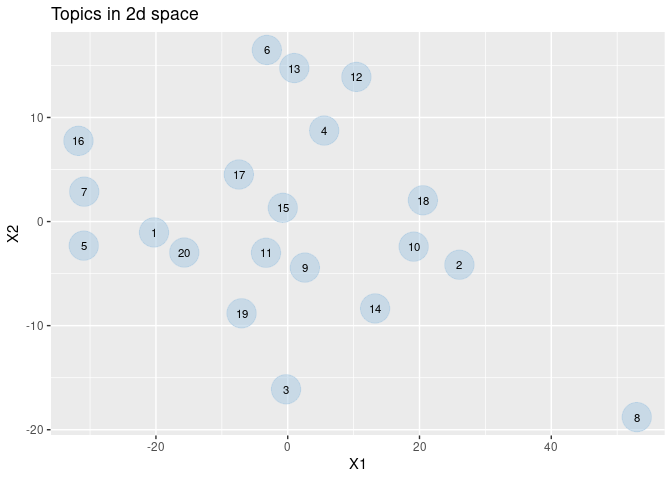
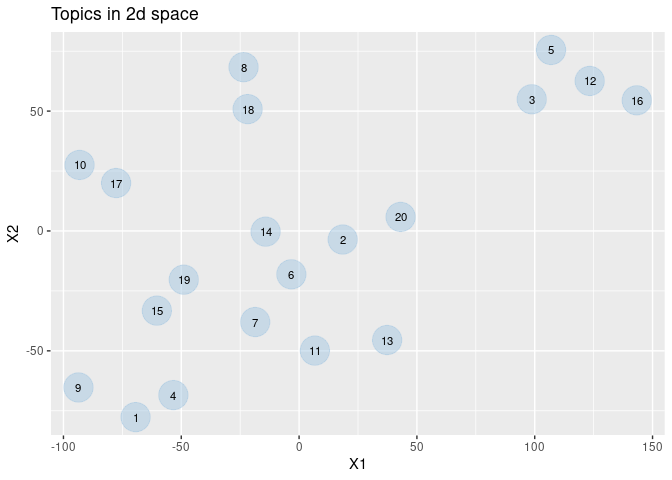
re

diff --git a/README.md b/README.md
@@ -10,6 +10,9 @@ structure.
 -   [Installation](#installation)
 -   [Usage](#usage)
     -   [PubMed search](#pubmed-search)
+    -   [Retrieve and parse abstract
+        data](#retrieve-and-parse-abstract-data)
+    -   [KWIC search](#kwic-search)
     -   [Extract MeSH classifications](#extract-mesh-classifications)
     -   [MeSH annotations-based topic
         model](#mesh-annotations-based-topic-model)
@@ -19,7 +22,6 @@ structure.
     -   [MeSH vocabulary](#mesh-vocabulary)
     -   [PMC MeSH annotation
         frequencies](#pmc-mesh-annotation-frequencies)
-    -   [Medline citation counts](#medline-citation-counts)
 
 ## Installation
 
@@ -42,21 +44,21 @@ s0 <- PubmedMTK::pmtk_search_pubmed(search_term = 'medical marijuana',
                                     fields = c('TIAB','MH'))
 ```
 
-    ## [1] "medical marijuana[TIAB] OR medical marijuana[MH]: 2126 records"
+    ## [1] "medical marijuana[TIAB] OR medical marijuana[MH]: 2134 records"
 
 ``` r
 head(s0)
 ```
 
     ##          search_term     pmid
-    ## 1: medical marijuana 34044753
-    ## 2: medical marijuana 34007062
-    ## 3: medical marijuana 33998880
-    ## 4: medical marijuana 33998864
-    ## 5: medical marijuana 33981161
-    ## 6: medical marijuana 33974499
+    ## 1: medical marijuana 34128629
+    ## 2: medical marijuana 34109050
+    ## 3: medical marijuana 34082823
+    ## 4: medical marijuana 34044753
+    ## 5: medical marijuana 34007062
+    ## 6: medical marijuana 33998880
 
-### Retrieve abstract data from PubMed
+### Retrieve and parse abstract data
 
 ``` r
 sen_df <- PubmedMTK::pmtk_get_records2(pmids = s0$pmid, 
@@ -78,39 +80,59 @@ list(pmid = sen_df$pmid[n],
 ```
 
     ## $pmid
-    ## [1] "33933061"
+    ## [1] "33974499"
     ## 
     ## $year
     ## [1] "2021"
     ## 
     ## $articletitle
-    ## [1] "Opioid use in medical cannabis authorization adult patients"
-    ## [2] "from 2013 to 2018: Alberta, Canada."                        
+    ## [1] "The Risk of QTc Prolongation with Antiemetics in the"
+    ## [2] "Palliative Care Setting: A Narrative Review."        
     ## 
     ## $meshHeadings
-    ## [1] "Adult|Alberta|Analgesics,"                                  
-    ## [2] "Opioid|Cannabis|Female|Humans|Male|Medical Marijuana|Middle"
-    ## [3] "Aged|Opioid-Related Disorders|United States"                
+    ## [1] "NA"
     ## 
     ## $text
-    ##  [1] "The opioid overdose epidemic in Canada and the United"      
-    ##  [2] "States has become a public health crisis - with exponential"
-    ##  [3] "increases in opioid-related morbidity and mortality."       
-    ##  [4] "Recently, there has been an increasing body of evidence"    
-    ##  [5] "focusing on the opioid-sparing effects of medical cannabis" 
-    ##  [6] "use (reduction of opioid use and reliance), and medical"    
-    ##  [7] "cannabis as a potential alternative treatment for chronic"  
-    ##  [8] "pain. The objective of this study is to assess the effect"  
-    ##  [9] "of medical cannabis authorization on opioid use (oral"      
-    ## [10] "morphine equivalent; OME) between 2013 and 2018 in Alberta,"
+    ##  [1] "Nausea and vomiting are common within the palliative care"  
+    ##  [2] "population. Antiemetic agents may help control symptoms,"   
+    ##  [3] "but may also place patients at risk for QTc prolongation."  
+    ##  [4] "This article reviews pharmacotherapy agents including"      
+    ##  [5] "anticholinergics, antihistamines, antidopaminergics, 5-HT3" 
+    ##  [6] "receptor antagonists, dronabinol, and medical marijuana and"
+    ##  [7] "their associated risk of QTc prolongation. A clinical"      
+    ##  [8] "treatment pathway is provided to help guide clinicians in"  
+    ##  [9] "choosing the most appropriate antiemetic based upon patient"
+    ## [10] "specific factors for QTc prolongation."
+
+### KWIC search
+
+The `pmtk_locate_search()` function allows for quick keyword-in-context
+(KWIC) search. A simple wrapper of the `corpus::text_locate` function.
+
+``` r
+toks <-  corpus::text_tokens(sen_df$abstract)
+
+egs <- PubmedMTK::pmtk_locate_search(text = toks,
+                                     doc_id = sen_df$pmid,
+                                     search = c('medical marijuana laws'),
+                                     stem = F,
+                                     window = 15)
+knitr::kable(egs[1:5, ])
+```
+
+| doc_id   | lhs                                                                                                               | instance               | rhs                                                                                                   |
+|:---------|:------------------------------------------------------------------------------------------------------------------|:-----------------------|:------------------------------------------------------------------------------------------------------|
+| 34128629 | impaired executive function , cognition , and driving . physicians can recommend use of marijuana under           | medical marijuana laws | but cannot prescribe it , as it is classified as a schedule i controlled substance .                  |
+| 33750275 | background : states are rapidly moving to reverse marijuana prohibition , most frequently through legalization of | medical marijuana laws | ( mmls ) , and there is concern that marijuana legalization may affect adolescent marijuana use       |
+| 33730400 | more common in states with recreational marijuana laws ( rml ) , followed by states with                          | medical marijuana laws | ( mml ) and without legal cannabis use , respectively . rml and mml were associated                   |
+| 33624387 | insurance . we used a differences-in-differences ( dd ) approach and found that the implementation of             | medical marijuana laws | ( mmls ) and recreational marijuana laws ( rmls ) reduced morphine milligram equivalents per enrollee |
+| 33143941 | use were assessed each year . cannabis legalization was determined by the presence or absence of                  | medical marijuana laws | ( mml ) and recreational marijuana laws ( rml ) in each state . difference-in-difference approach     |
 
 ### Extract MeSH classifications
 
 Subject terms/headings in metadata table include `MeSH` terms, as well
 as (some) `keywords` & `chem-names`. The `pmtk_gather_mesh` function
-extracts & structures these attributes from metadata. The resulting
-table amounts to a document-term matrix (DTM), in which each PubMed
-abstract is represented as a vector of MeSH terms.
+extracts & structures these attributes from metadata.
 
 ``` r
 m0 <- PubmedMTK::pmtk_gather_mesh(sen_df)
@@ -122,9 +144,7 @@ We can use these MeSH-based abstract representations to explore the
 conceptual structure of a particular collection of PubMed records via
 topic modeling. Here we implement **Latent Dirichlet allocation**, which
 is a topic modeling algorithm that models *each document* in corpus as a
-composite of topics, and *each topic* as a composite of terms. Topic
-composition can be interpreted as sets of MeSH terms that frequently
-co-occur.
+composite of topics, and *each topic* as a composite of terms.
 
 ``` r
 as.text <- m0[, list(text = paste(term, collapse = " ")), by = pmid]
@@ -142,18 +162,15 @@ dtm <- text2vec::create_dtm(iter, vectorizer)
 ```
 
 The `pmtk_summarize_lda` function summarizes and extracts topic
-composition from the `text2vec::LDA` output. For each possible
-topic-feature pair, the model computes the likelihood a given topic
-generated a given feature. Output is filtered to the highest scoring
-features per topic using the `topic_feats_n`.
+composition from the `text2vec::LDA` output.
 
 ``` r
 lda <- text2vec::LDA$new(n_topics = 20) 
 fit <- lda$fit_transform(dtm, progressbar = F)
 ```
 
-    ## INFO  [10:21:00.867] early stopping at 190 iteration 
-    ## INFO  [10:21:01.172] early stopping at 20 iteration
+    ## INFO  [13:46:39.947] early stopping at 120 iteration 
+    ## INFO  [13:46:40.235] early stopping at 20 iteration
 
 ``` r
 tm_summary <- PubmedMTK::pmtk_summarize_lda(
@@ -162,18 +179,18 @@ tm_summary <- PubmedMTK::pmtk_summarize_lda(
 
 #### Feature composition of first ten topics
 
-| topic_id | topic_features                                                                                                                                                                                                                                      |
-|---------:|:----------------------------------------------------------------------------------------------------------------------------------------------------------------------------------------------------------------------------------------------------|
-|        1 | male \| child \| adolescent \| female \| retrospective_studies \| colorado \| child,\_preschool \| cannabis \| cross-sectional_studies \| infant                                                                                                    |
-|        2 | cannabis \| canada \| physicians \| germany \| europe \| ethnic_groups \| dementia \| suicide,\_assisted \| counseling \| terminal_care                                                                                                             |
-|        3 | cannabinoids \| marijuana_smoking \| randomized_controlled_trials_as_topic \| plant_extracts \| biomedical_research \| reproducibility_of_results \| marijuana_use \| chromatography,\_high_pressure_liquid \| cannabis \| tandem_mass_spectrometry |
-|        4 | united_states \| drug_and_narcotic_control \| state_government \| california \| government_regulation \| federal_government \| public_policy \| physician-patient_relations \| health_care_and_public_health \| legal_approach                      |
-|        5 | female \| male \| adult \| surveys_and_questionnaires \| longitudinal_studies \| driving_under_the_influence \| israel \| cannabis_legalization \| ontario \| curriculum                                                                            |
-|        6 | legislation,\_drug \| marijuana_abuse \| marijuana_smoking \| risk_factors \| public_health \| commerce \| legalization \| pregnancy \| history,\_20th_century \| automobile_driving                                                                |
-|        7 | female \| middle_aged \| adult \| male \| young_adult \| motivation \| sex_factors \| age_factors \| health_status \| pilot_projects                                                                                                                |
-|        8 | phytotherapy \| cannabis \| plant_preparations \| hiv_infections \| jurisprudence \| legislation,\_drug \| health_services_accessibility \| evidence-based_medicine \| politics \| san_francisco                                                    |
-|        9 | treatment_outcome \| epilepsy \| medical_cannabis \| anticonvulsants \| cannabidiol \| quality_of_life \| pain_measurement \| seizures \| plant_extracts \| drug_resistant_epilepsy                                                                 |
-|       10 | cannabis \| marijuana \| medical_cannabis \| health_knowledge,\_attitudes,\_practice \| glaucoma \| internet \| marijuana_use \| administration,\_inhalation \| attitude \| australia                                                               |
+| topic_id | topic_features                                                                                                                                                                                                |
+|---------:|:--------------------------------------------------------------------------------------------------------------------------------------------------------------------------------------------------------------|
+|        1 | cannabis \| cannabinoids \| germany \| quality_of_life \| palliative_care \| canada \| illicit_drugs \| societies,\_medical \| cannabinoid \| glaucoma                                                        |
+|        2 | pain \| vomiting \| analgesics \| marijuana_smoking \| muscle_spasticity \| drug_interactions \| cancer_pain \| israel \| clinical_trials_as_topic \| marijuana_abuse                                         |
+|        3 | young_adult \| male \| adult \| female \| adolescent \| middle_aged \| age_factors \| prevalence \| socioeconomic_factors \| sex_factors                                                                      |
+|        4 | cannabis \| legislation,\_drug \| cannabinoids \| risk_assessment \| drug_prescriptions \| practice_patterns,\_physicians’ \| marijuana \| neoplasms \| research \| treatment_outcome                         |
+|        5 | male \| female \| adult \| treatment_outcome \| attitude_of_health_personnel \| prospective_studies \| anxiety \| self_report \| chronic_disease \| adolescent                                                |
+|        6 | legislation,\_drug \| marijuana_use \| marijuana_abuse \| marijuana_smoking \| united_states \| prevalence \| male \| epidemiology \| retrospective_studies \| time_factors                                   |
+|        7 | cannabis \| marijuana_smoking \| legislation,\_drug \| health_policy \| commerce \| pregnancy \| marijuana_use \| cannabinoids \| female \| plant_extracts                                                    |
+|        8 | united_states \| drug_and_narcotic_control \| nausea \| drug_approval \| evidence-based_medicine \| politics \| united_states_food_and_drug_administration \| minnesota \| palliative_care \| risk_assessment |
+|        9 | phytotherapy \| cannabis \| united_states \| plant_preparations \| hiv_infections \| physicians \| cancer \| practice_patterns,\_physicians’ \| physician’s_role \| pharmacists                               |
+|       10 | dronabinol \| cannabidiol \| cannabinoids \| animals \| multiple_sclerosis \| nabiximols \| tetrahydrocannabinol \| receptors,\_cannabinoid \| cognition \| drug_combinations                                 |
 
 ### Two-dimensional analyses
 
@@ -186,17 +203,6 @@ tmat <- tidytext::cast_sparse(data = tm_summary$topic_word_dist,
 ## build 2d data structures --
 two_ds <- PubmedMTK::pmtk_2d(mat = tmat, seed = 99)
 ```
-
-#### Hierarchical clustering
-
-``` r
-#two_ds$hc$labels <- tm_summary$topic_summary$topic_features
-two_ds$hc %>% ggdendro::ggdendrogram(rotate=TRUE)
-```
-
-![](README_files/figure-markdown_github/unnamed-chunk-16-1.png)
-
-#### tSNE
 
 ``` r
 two_ds$tsne %>%
@@ -272,20 +278,3 @@ PubmedMTK::pmtk_tbl_pmc_ref
     ## 1304695:    chemNames         monoethylglycinexylidide         1 5.513020e-07
     ## 1304696:    chemNames                           savlon         1 5.513020e-07
     ## 1304697:    chemNames            7-propyl_spirolactone         1 5.513020e-07
-
-### Medline citation counts
-
-Table build details available
-[here](https://github.com/jaytimm/PubmedMTK/blob/main/mds/medline_citations.md).
-
-``` r
-tail(PubmedMTK::pmtk_tbl_citations)
-```
-
-    ##          year  total    usa
-    ## 1: 2016-01-01 862744 350671
-    ## 2: 2017-01-01 848229 343161
-    ## 3: 2018-01-01 857322 339199
-    ## 4: 2019-01-01 865068 334305
-    ## 5: 2020-01-01 871672 329411
-    ## 6: 2021-01-01 877300 324518
